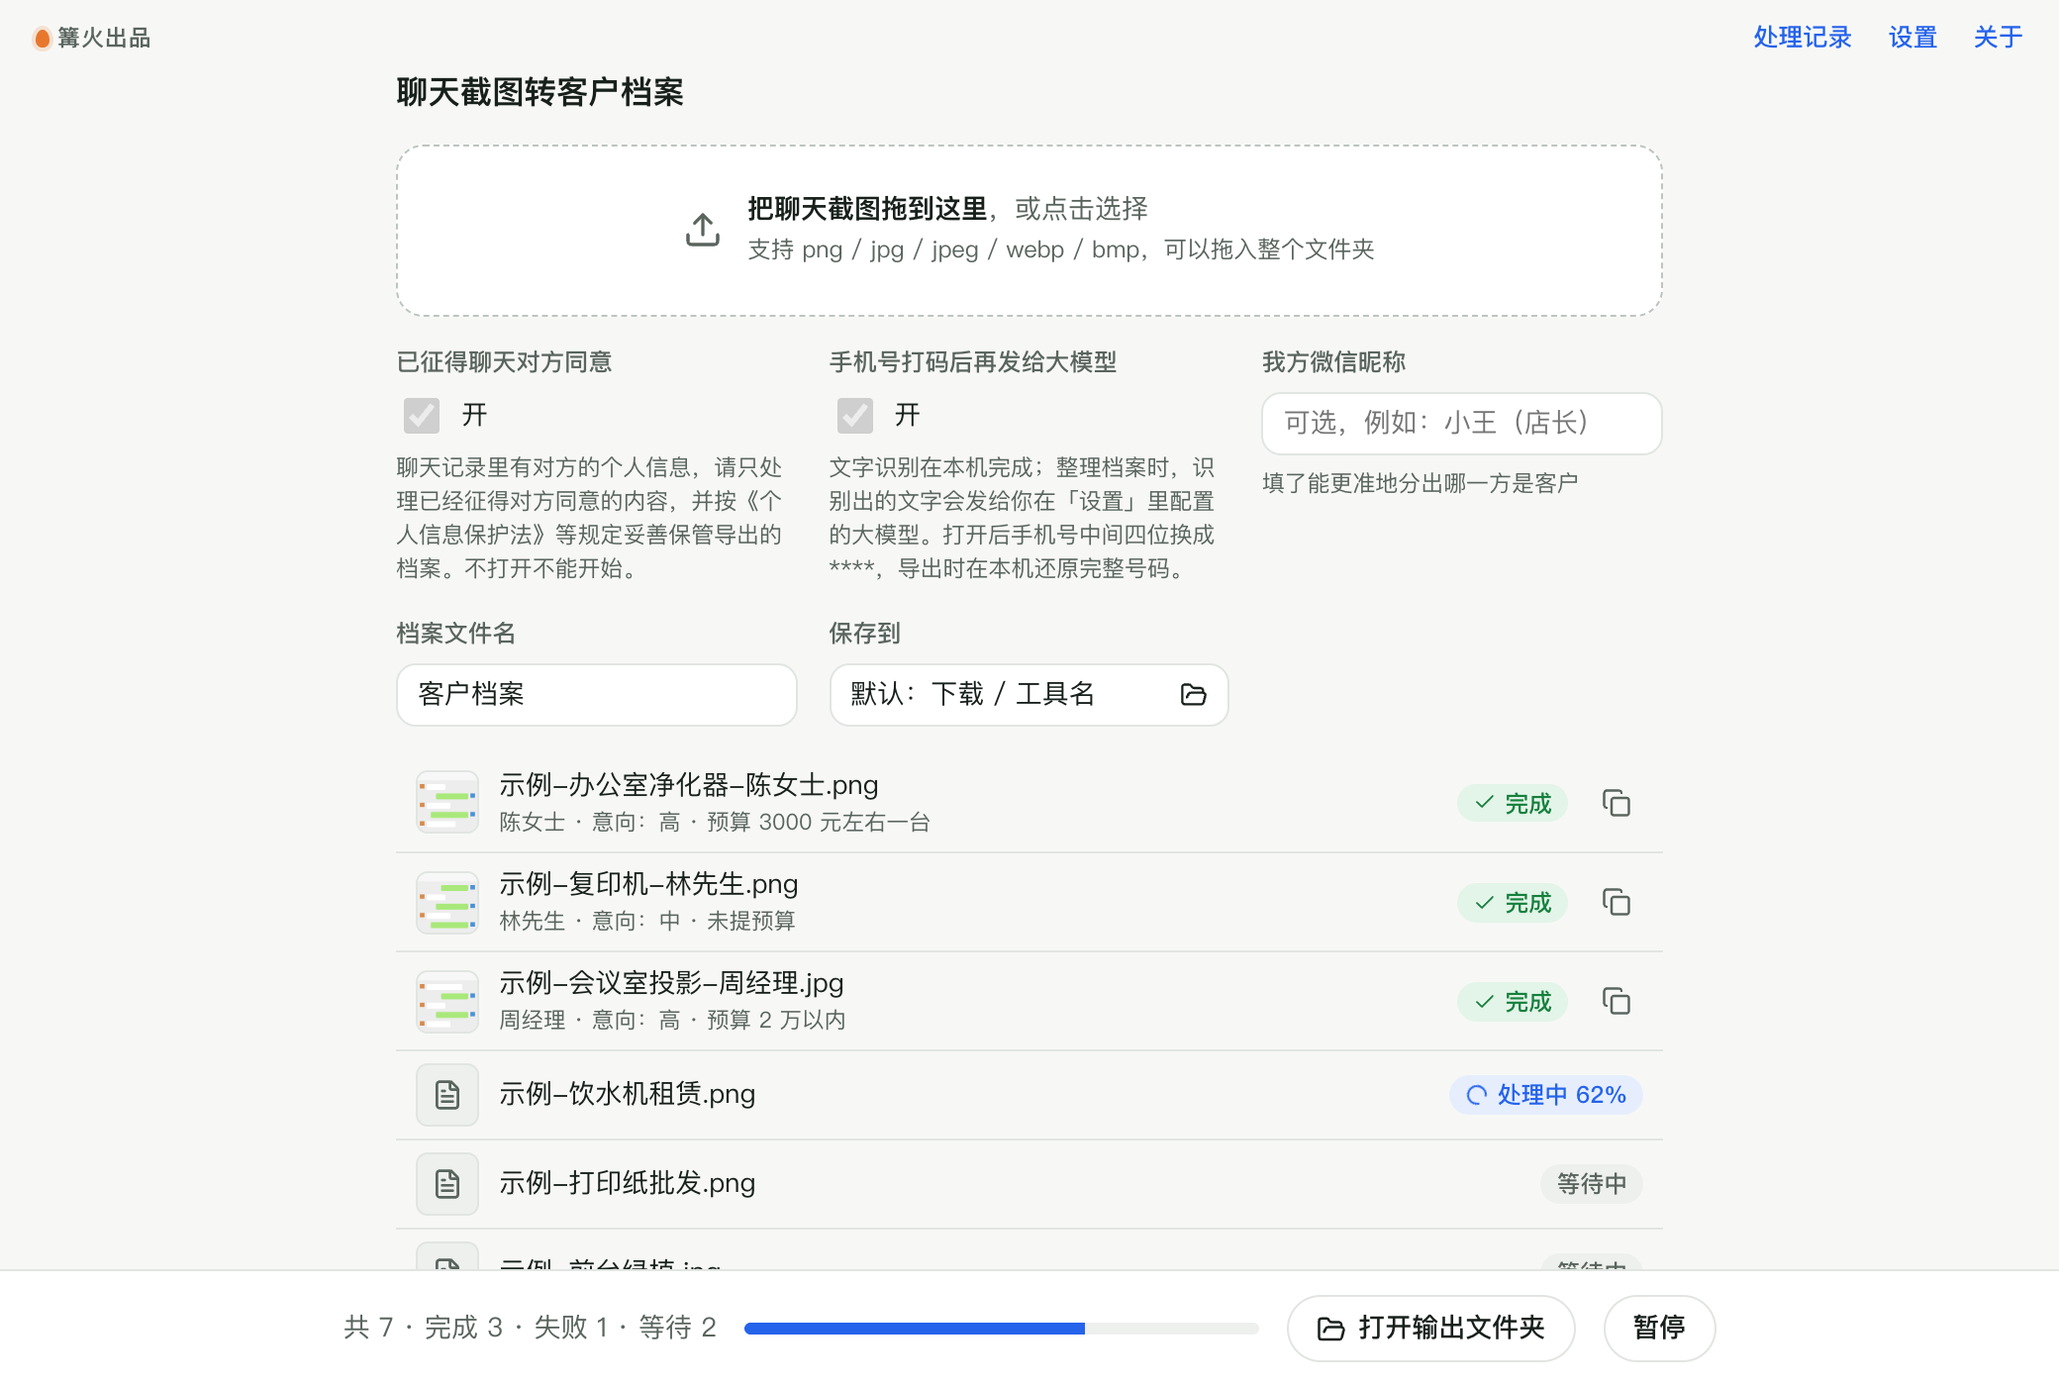
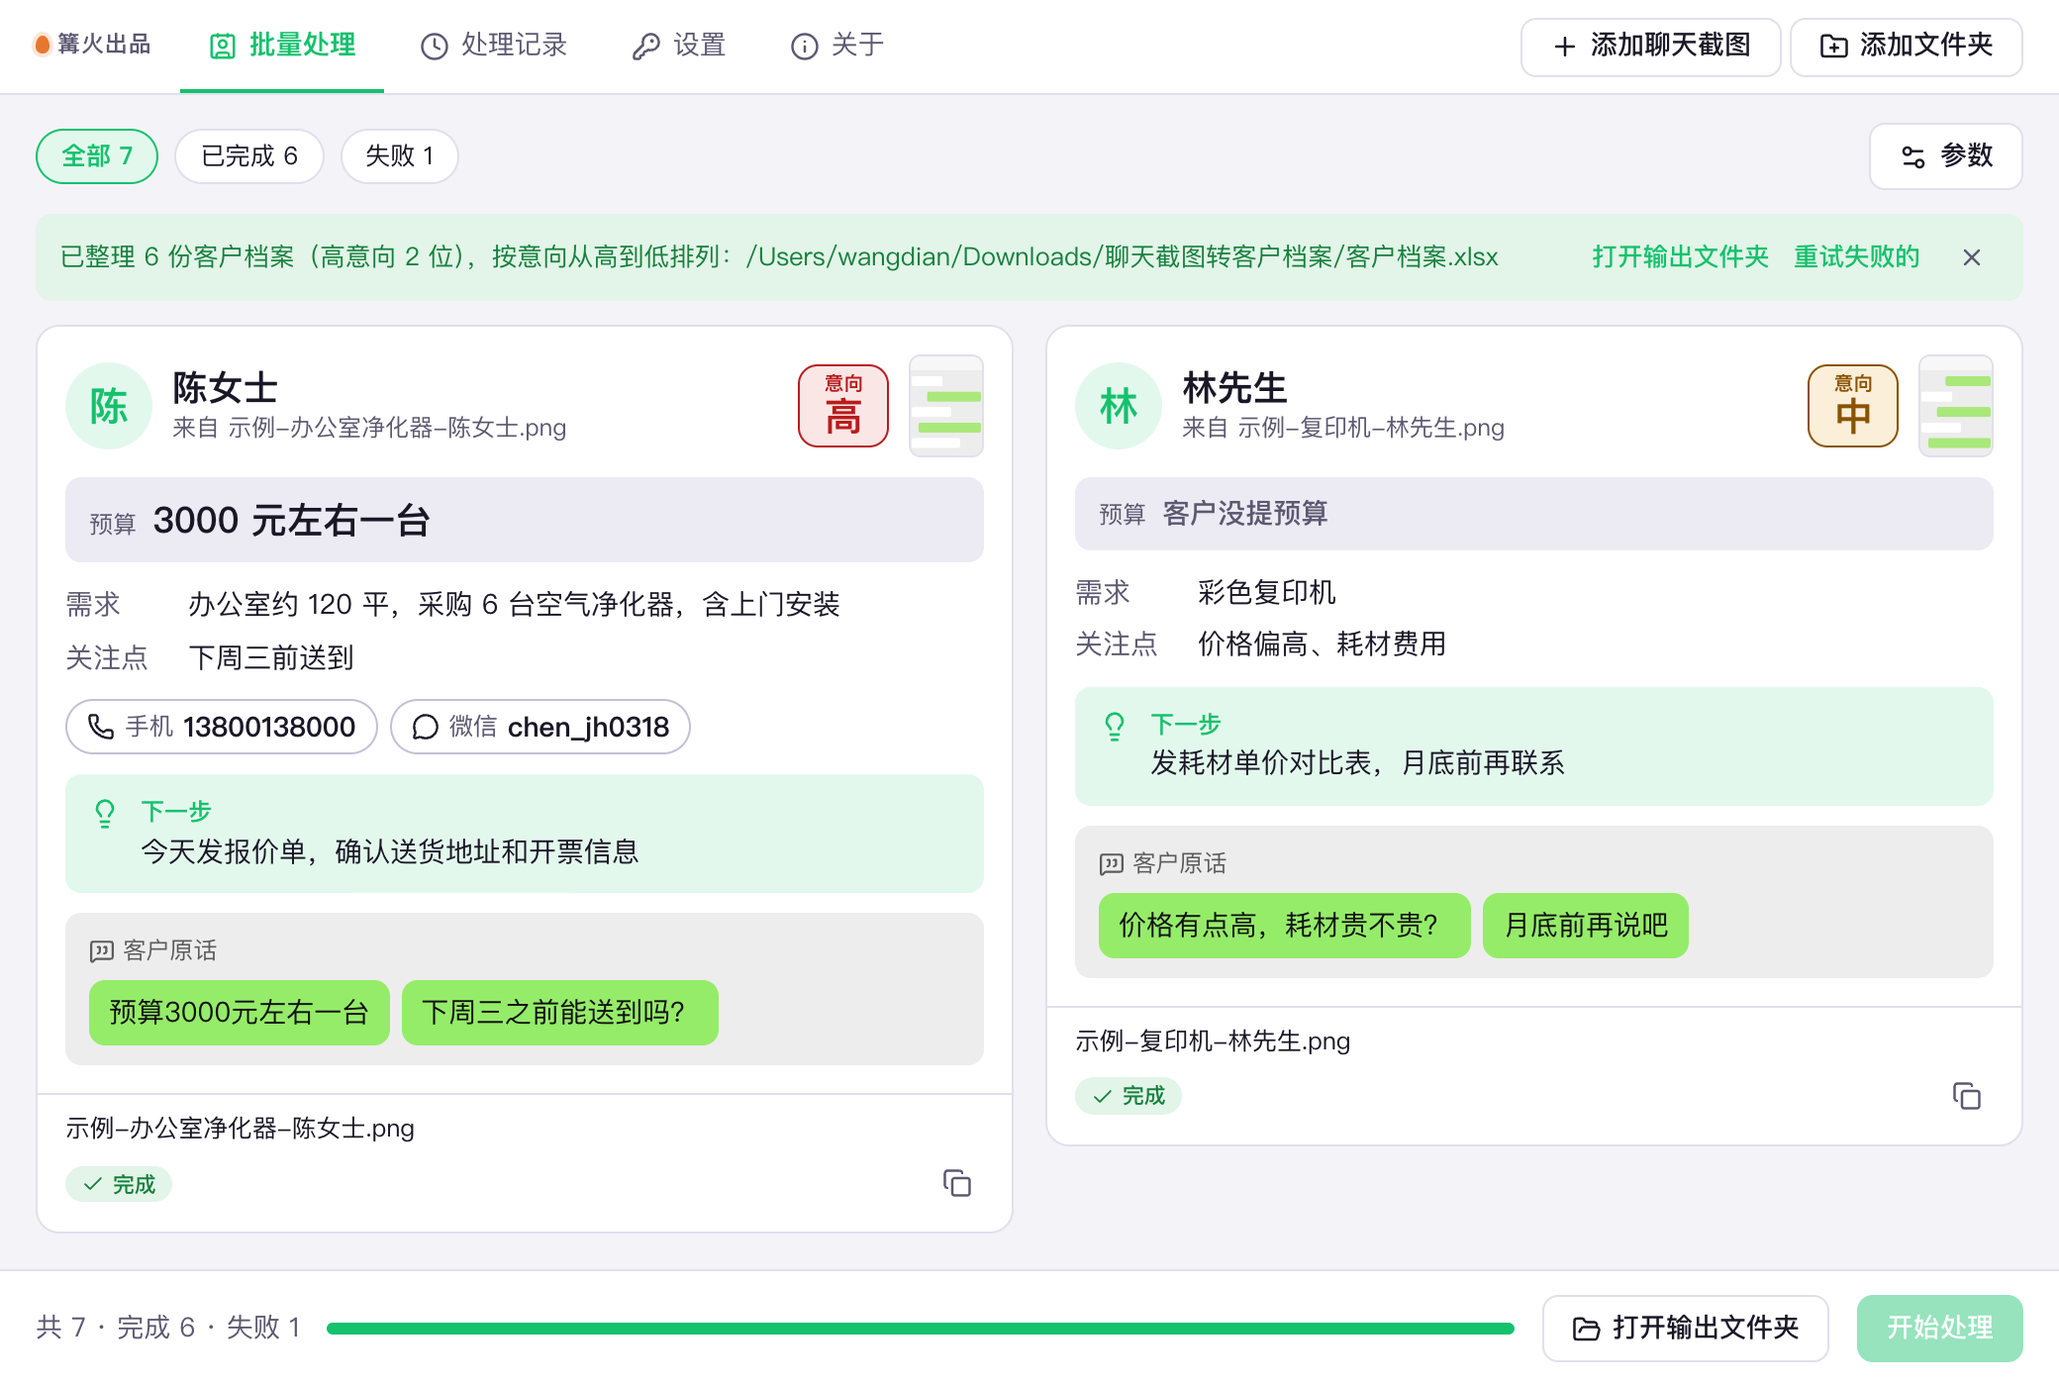
0.2.0：结果改为客户名片墙，新增空状态示意图，全中文

diff --git a/src/tool/tool.css b/src/tool/tool.css
@@ -1,0 +1,69 @@
+/* 聊天截图转客户档案：布局 f（顶部标签 + 卡片网格），结果是一面客户名片墙；只用 kit.css 变量，适配亮暗色 */
+.L-f .k-cards { grid-template-columns: repeat(auto-fill, minmax(340px, 1fr)); gap: 16px; align-items: start; }
+.L-f .k-card-body { padding: 0; }
+.L-f .k-card-meta { padding: 8px 14px 10px; border-top: 1px solid var(--line); }
+
+.cc-empty { display: grid; justify-items: center; gap: 14px; padding: 20px; max-width: 580px; margin: auto; text-align: center; font-size: 14px; }
+.cc-empty > svg { width: 100%; max-width: 500px; height: auto; }
+.cc-ph { fill: #EDEDED; stroke: var(--line-strong); stroke-width: 1.5; }
+html[data-mode="dark"] .cc-ph { fill: #262626; }
+.cc-b-l { fill: #fff; stroke: var(--line); }
+html[data-mode="dark"] .cc-b-l { fill: #3A3A3A; stroke: none; }
+.cc-b-r { fill: #95EC69; }
+html[data-mode="dark"] .cc-b-r { fill: #2F7A3E; }
+.cc-arrow { fill: none; stroke: var(--primary); stroke-width: 3; stroke-linecap: round; stroke-linejoin: round; }
+.cc-cap { fill: var(--primary); font-size: 12.5px; font-weight: 700; }
+.cc-nc { fill: var(--surface); stroke: var(--primary); stroke-width: 2; }
+.cc-av { fill: var(--primary-soft); stroke: var(--primary); }
+.cc-avt { fill: var(--primary); font-size: 16px; font-weight: 700; }
+.cc-nm { fill: var(--ink); font-size: 17px; font-weight: 700; }
+.cc-line { fill: var(--chip); }
+.cc-hi { fill: var(--err-soft); stroke: var(--err); }
+.cc-hit { fill: var(--err); font-size: 13px; font-weight: 700; }
+.cc-lb { fill: var(--muted); font-size: 13px; }
+.cc-big { fill: var(--ink); font-size: 17px; font-weight: 700; }
+.cc-tip { fill: var(--primary-soft); }
+.cc-tipt { fill: var(--primary); font-size: 13px; font-weight: 600; }
+.cc-steps { list-style: none; margin: 0; padding: 0; display: grid; gap: 6px; width: 100%; max-width: 520px; text-align: left; }
+.cc-steps li { display: grid; grid-template-columns: 20px 76px 1fr; align-items: center; gap: 8px; padding: 6px 12px; border-radius: min(var(--radius), 10px); background: var(--chip); }
+.cc-steps svg { color: var(--primary); }
+.cc-steps span { color: var(--muted); font-size: 13px; }
+.cc-title { margin: 4px 0 0; font-size: 20px; }
+.cc-act { margin: 0; display: inline-flex; align-items: center; gap: 6px; color: var(--muted); font-size: 13px; }
+
+/* 客户名片 */
+.cc-card { display: grid; gap: 10px; padding: 14px; font-size: 14px; min-width: 0; }
+.cc-head { display: grid; grid-template-columns: 44px minmax(0, 1fr) auto auto; align-items: center; gap: 10px; }
+.cc-avatar { display: grid; place-items: center; width: 44px; height: 44px; border-radius: 50%; background: var(--primary-soft); color: var(--primary); font-size: 20px; font-weight: 700; }
+.cc-who { display: grid; min-width: 0; }
+.cc-name { font-size: 1.28em; line-height: 1.25; overflow-wrap: anywhere; }
+.cc-src { color: var(--muted); font-size: .86em; }
+.cc-intent { display: grid; justify-items: center; line-height: 1.1; padding: 4px 12px; border-radius: 10px; border: 1.5px solid var(--line-strong); color: var(--muted); font-size: 1.4em; font-weight: 800; }
+.cc-intent small { font-size: .5em; font-weight: 600; }
+.cc-intent.hi { background: var(--err-soft); border-color: var(--err); color: var(--err); }
+.cc-intent.mid { background: var(--warn-soft); border-color: var(--warn); color: var(--warn); }
+.cc-intent.lo { background: var(--chip); }
+.cc-intent.un { border-style: dashed; font-size: 1.1em; }
+.cc-shot { width: 38px; height: 52px; object-fit: cover; object-position: top; border-radius: 6px; border: 1px solid var(--line); background: var(--chip); }
+.cc-budget { display: flex; align-items: baseline; gap: 8px; padding: 8px 12px; border-radius: min(var(--radius), 10px); background: var(--chip); }
+.cc-budget small, .cc-next small { color: var(--muted); font-size: .86em; }
+.cc-budget b { font-size: 1.3em; color: var(--ink); }
+.cc-budget b.none { font-size: 1em; font-weight: 500; color: var(--muted); }
+.cc-fields { margin: 0; display: grid; grid-template-columns: 52px minmax(0, 1fr); gap: 4px 10px; line-height: 1.6; }
+.cc-fields dt { color: var(--muted); }
+.cc-fields dd { margin: 0; overflow-wrap: anywhere; user-select: text; }
+.cc-contacts { list-style: none; margin: 0; padding: 0; display: flex; flex-wrap: wrap; gap: 6px; }
+.cc-contacts li { display: inline-flex; align-items: center; gap: 5px; min-height: 28px; padding: 0 10px; border-radius: 999px; border: 1px solid var(--line-strong); }
+.cc-contacts span { color: var(--muted); font-size: .88em; }
+.cc-contacts b { font-weight: 600; user-select: text; font-variant-numeric: tabular-nums; }
+.cc-next { margin: 0; display: grid; grid-template-columns: 18px minmax(0, 1fr); gap: 8px; padding: 10px 12px; border-radius: min(var(--radius), 10px); background: var(--primary-soft); color: var(--ink); line-height: 1.55; }
+.cc-next svg { color: var(--primary); margin-top: 2px; }
+.cc-next small { display: block; color: var(--primary); font-weight: 700; }
+.cc-quotes { display: flex; flex-wrap: wrap; align-items: center; gap: 6px; padding: 10px 12px; border-radius: min(var(--radius), 10px); background: #EDEDED; --bub: #95EC69; --bub-ink: #111; }
+html[data-mode="dark"] .cc-quotes { background: #1E1E1E; --bub: #2F7A3E; --bub-ink: #fff; }
+.cc-qt { flex: 0 0 100%; display: inline-flex; align-items: center; gap: 4px; font-size: .85em; color: #5B5B5B; }
+html[data-mode="dark"] .cc-qt { color: #A8A8A8; }
+.cc-quotes q { quotes: none; padding: 6px 10px; border-radius: 8px; background: var(--bub); color: var(--bub-ink); line-height: 1.5; max-width: 100%; overflow-wrap: anywhere; user-select: text; }
+.cc-note { margin: 0; display: flex; gap: 6px; align-items: flex-start; padding: 6px 10px; border-radius: min(var(--radius), 10px); background: var(--warn-soft); color: var(--warn); font-size: .92em; }
+.cc-note svg { flex: none; margin-top: 3px; }
+@media (max-width: 520px) { .L-f .k-cards { grid-template-columns: 1fr; } .cc-shot { display: none; } .cc-head { grid-template-columns: 44px minmax(0, 1fr) auto; } }

diff --git a/src/tool/Result.tsx b/src/tool/Result.tsx
@@ -1,0 +1,68 @@
+// 单张截图的结果：左边是来源截图缩略图，右边是一张客户名片（称呼、意向、预算、需求、联系方式、跟进建议、客户原话）
+import { Lightbulb, MessageSquareQuote, Phone, MessageCircle, AtSign, TriangleAlert } from 'lucide-react';
+import type { InputItem, ItemResult } from '../kit/types';
+import { fileSrc } from '../kit/platform';
+import './tool.css';
+
+/** 把「键：值」每行一项的档案文字拆开；「提示」可以有多行 */
+function parse(text: string) {
+  const f: Record<string, string> = {};
+  const notes: string[] = [];
+  for (const line of text.split('\n')) {
+    const i = line.indexOf('：');
+    if (i < 0) continue;
+    const k = line.slice(0, i);
+    const v = line.slice(i + 1).trim();
+    if (k === '提示') notes.push(v);
+    else f[k] = v;
+  }
+  return { f, notes };
+}
+
+const INTENT_CLASS: Record<string, string> = { 高: 'hi', 中: 'mid', 低: 'lo' };
+
+export function ResultBody({ item, result }: { item: InputItem; result: ItemResult }) {
+  const { f, notes } = parse(result.text ?? '');
+  const src = result.preview ?? item.path;
+  const name = f['客户'] || '未识别称呼';
+  const intent = f['意向'] || '未知';
+  const quotes = (f['原文依据'] ?? '').split(/[｜|]/).map((s) => s.trim()).filter(Boolean);
+  const contacts: [typeof Phone, string, string][] = [];
+  if (f['手机号']) contacts.push([Phone, '手机', f['手机号']]);
+  if (f['微信号']) contacts.push([MessageCircle, '微信', f['微信号']]);
+  if (f['其他联系方式']) contacts.push([AtSign, '其他', f['其他联系方式']]);
+  return (
+    <article className="cc-card">
+      <header className="cc-head">
+        <span className="cc-avatar" aria-hidden>{name.slice(0, 1)}</span>
+        <div className="cc-who">
+          <b className="cc-name">{name}</b>
+          <span className="cc-src k-ellipsis" title={item.name}>来自 {item.name}</span>
+        </div>
+        <span className={`cc-intent ${INTENT_CLASS[intent] ?? 'un'}`}><small>意向</small>{intent}</span>
+        {src && <img className="cc-shot" src={fileSrc(src)} alt="来源聊天截图" />}
+      </header>
+      <div className="cc-budget">
+        <small>预算</small>
+        <b className={f['预算'] ? '' : 'none'}>{f['预算'] || '客户没提预算'}</b>
+      </div>
+      <dl className="cc-fields">
+        {f['需求'] && <><dt>需求</dt><dd>{f['需求']}</dd></>}
+        {f['关注点'] && <><dt>关注点</dt><dd>{f['关注点']}</dd></>}
+      </dl>
+      {contacts.length > 0 && (
+        <ul className="cc-contacts">
+          {contacts.map(([I, k, v]) => <li key={k}><I size={14} aria-hidden /><span>{k}</span><b>{v}</b></li>)}
+        </ul>
+      )}
+      {f['跟进建议'] && <p className="cc-next"><Lightbulb size={16} aria-hidden /><span><small>下一步</small>{f['跟进建议']}</span></p>}
+      {quotes.length > 0 && (
+        <div className="cc-quotes">
+          <span className="cc-qt"><MessageSquareQuote size={13} aria-hidden />客户原话</span>
+          {quotes.map((q, i) => <q key={i}>{q}</q>)}
+        </div>
+      )}
+      {notes.map((n, i) => <p key={i} className="cc-note"><TriangleAlert size={14} aria-hidden />{n}</p>)}
+    </article>
+  );
+}

diff --git a/src/tool/Empty.tsx b/src/tool/Empty.tsx
@@ -1,0 +1,40 @@
+// 空状态：画出「聊天截图 → 客户名片」，写清三步和数据去向
+import { Cpu, FileSpreadsheet, ShieldCheck, Upload } from 'lucide-react';
+import './tool.css';
+
+export function Empty({ hover }: { hover: boolean }) {
+  return (
+    <div className="cc-empty">
+      <svg viewBox="0 0 440 190" role="img" aria-label="一张聊天截图整理成一张客户名片：称呼、意向高、预算、跟进建议">
+        <rect x="10" y="10" width="140" height="170" rx="12" className="cc-ph" />
+        <rect x="22" y="26" width="76" height="22" rx="6" className="cc-b-l" />
+        <rect x="52" y="58" width="86" height="22" rx="6" className="cc-b-r" />
+        <rect x="22" y="90" width="100" height="22" rx="6" className="cc-b-l" />
+        <rect x="64" y="122" width="74" height="22" rx="6" className="cc-b-r" />
+        <rect x="22" y="154" width="60" height="16" rx="6" className="cc-b-l" />
+        <path d="M168 95 H210 M199 85 L211 95 L199 105" className="cc-arrow" />
+        <text x="190" y="72" textAnchor="middle" className="cc-cap">识别并整理</text>
+        <rect x="230" y="14" width="200" height="162" rx="14" className="cc-nc" />
+        <circle cx="258" cy="46" r="16" className="cc-av" />
+        <text x="258" y="52" textAnchor="middle" className="cc-avt">陈</text>
+        <text x="284" y="44" className="cc-nm">陈女士</text>
+        <rect x="284" y="52" width="52" height="8" rx="4" className="cc-line" />
+        <rect x="364" y="32" width="50" height="26" rx="13" className="cc-hi" />
+        <text x="389" y="50" textAnchor="middle" className="cc-hit">意向 高</text>
+        <text x="244" y="88" className="cc-lb">预算</text>
+        <text x="282" y="89" className="cc-big">3000 元左右</text>
+        <rect x="244" y="104" width="172" height="8" rx="4" className="cc-line" />
+        <rect x="244" y="118" width="130" height="8" rx="4" className="cc-line" />
+        <rect x="244" y="138" width="172" height="28" rx="8" className="cc-tip" />
+        <text x="256" y="156" className="cc-tipt">下一步：今天发报价单</text>
+      </svg>
+      <ul className="cc-steps">
+        <li><ShieldCheck size={16} aria-hidden /><b>先确认同意</b><span>只处理已征得聊天对方同意的内容</span></li>
+        <li><Cpu size={16} aria-hidden /><b>本机识别</b><span>文字识别在电脑上完成，截图不上传；整理时只发文字，手机号默认打码</span></li>
+        <li><FileSpreadsheet size={16} aria-hidden /><b>导出档案</b><span>按意向从高到低排成一张 Excel</span></li>
+      </ul>
+      <h2 className="cc-title">{hover ? '松开鼠标，开始添加' : '把聊天截图拖进来'}</h2>
+      <p className="cc-act"><Upload size={15} aria-hidden />支持 PNG、JPG、WebP、BMP，也可以拖入整个文件夹；一张截图整理成一份档案</p>
+    </div>
+  );
+}

diff --git a/src/tool/preview.ts b/src/tool/preview.ts
@@ -36,13 +36,16 @@ const files: [string, Row['status'], string][] = [
 
 export const params = { consent: true };
 
+// check-zh: 忽略（示例微信号本来就是英文数字）
 const DETAIL: Record<number, string> = {
-  0: '客户：陈女士\n意向：高\n预算：3000 元左右一台\n需求：办公室约 120 平，采购 6 台空气净化器，含上门安装\n关注点：下周三前送到\n手机号：13800138000\n微信号：demo_chen01\n跟进建议：今天发报价单，确认送货地址和开票信息\n原文依据：预算3000元左右一台｜下周三之前能送到吗？',
+  0: '客户：陈女士\n意向：高\n预算：3000 元左右一台\n需求：办公室约 120 平，采购 6 台空气净化器，含上门安装\n关注点：下周三前送到\n手机号：13800138000\n微信号：chen_jh0318\n跟进建议：今天发报价单，确认送货地址和开票信息\n原文依据：预算3000元左右一台｜下周三之前能送到吗？',
+  2: '客户：周经理\n意向：高\n预算：2 万以内\n需求：会议室投影和幕布，两间会议室\n关注点：能不能周末安装\n手机号：13900139000\n跟进建议：本周内上门量尺寸，同步发两套方案\n原文依据：预算2万以内｜周末能装吗？',
   1: '客户：林先生\n意向：中\n需求：彩色复印机\n关注点：价格偏高、耗材费用\n跟进建议：发耗材单价对比表，月底前再联系\n原文依据：价格有点高，耗材贵不贵？｜月底前再说吧',
 };
 
+// check-zh: 忽略（示例里的系统文件夹路径）
 export const notice = new URLSearchParams(location.search).get('state') === 'done'
-  ? { kind: 'ok' as const, text: '已整理 6 份客户档案（高意向 2 位），按意向从高到低排列：/Users/demo/Downloads/聊天截图转客户档案/客户档案.xlsx' }
+  ? { kind: 'ok' as const, text: '已整理 6 份客户档案（高意向 2 位），按意向从高到低排列：/Users/wangdian/Downloads/聊天截图转客户档案/客户档案.xlsx' }
   : undefined;
 
 export const rows = (state: string): Row[] =>

diff --git a/src/tool/index.ts b/src/tool/index.ts
@@ -6,6 +6,8 @@ import {
   type Profile,
 } from './core';
 import { writeXlsx } from './xlsx';
+import { Empty } from './Empty';
+import { ResultBody } from './Result';
 
 type Data = { file: string; profile: Profile; notes: string[]; chatText: string };
 
@@ -34,6 +36,8 @@ const tool: BatchTool = {
   resultView: 'list',
   needsLLM: true,
   concurrency: 1,
+  Empty,
+  ResultBody,
   accept: { label: '聊天截图', extensions: ['png', 'jpg', 'jpeg', 'webp', 'bmp'] },
   params: [
     {

diff --git a/README.md b/README.md
@@ -31,7 +31,7 @@
 2. 把聊天截图拖进窗口（可以拖整个文件夹），支持 png / jpg / jpeg / webp / bmp。每张截图整理成一份档案，同一个客户的多张截图请先拼成一张长图。
 3. 确认已征得聊天对方同意后，打开「已征得聊天对方同意」。不打开不会处理。
 4. 可选：「我方微信昵称」填你自己在聊天里的名字，帮助区分哪一方是客户。
-5. 点「开始处理」。每张截图下面显示「称呼 · 意向 · 预算」，点复制按钮可复制整份档案文字。
+5. 点「开始处理」。每张截图变成一张客户名片（称呼、意向、预算、需求、联系方式、下一步建议和客户原话），点名片下方的复制按钮可复制整份档案文字。
 6. 全部处理完自动生成「客户档案.xlsx」（文件名可改），按意向从高到低排列，「意向」一列按高 / 中 / 低着色。
 
 **怎么防止编造**

diff --git a/CHANGELOG.md b/CHANGELOG.md
@@ -1,5 +1,12 @@
 # 更新记录
 
+## 0.2.0
+
+- 空状态改成「聊天截图 → 客户名片」示意图，写清先确认同意、本机识别、导出 Excel 三步。
+- 每份结果改成一张客户名片：称呼头像、意向大标签（高 / 中 / 低 / 未知）、预算大字、需求与关注点、手机 / 微信 / 其他联系方式、下一步建议，客户原话用聊天气泡显示，核对提示单独标出，并附来源截图缩略图。
+- 布局改为顶部标签加卡片网格，主色改为绿色。
+- 示例数据与界面文字全部中文，识别逻辑和导出格式不变。
+
 ## 0.1.0
 
 - 首个版本。
